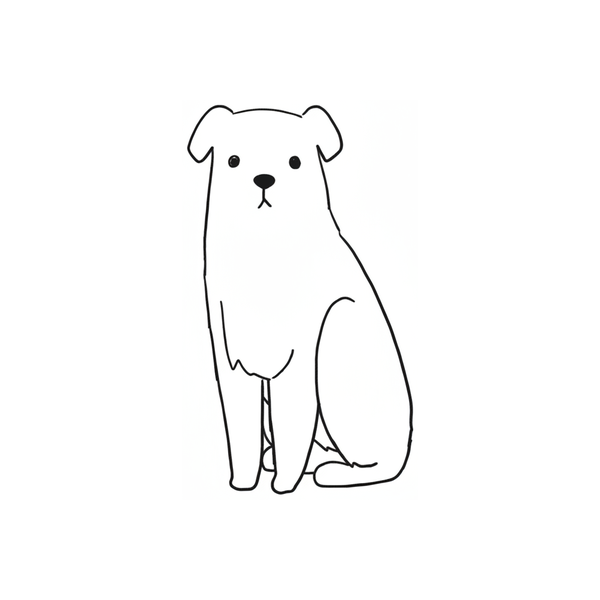
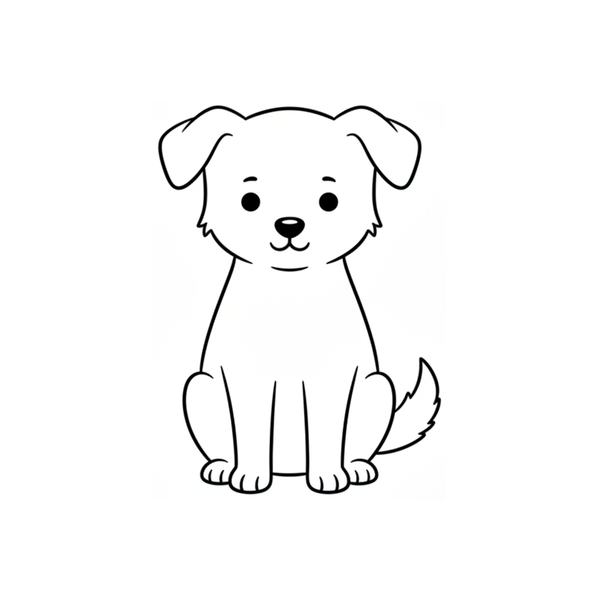
refactor: recreate score 6 dog mascot using fox template for upright symmetry and matching line art

Changed region(s): [[0.27, 0.15, 0.75, 0.84], [0.45, 0.36, 0.51, 0.45], [0.24, 0.24, 0.27, 0.27]]

diff --git a/scripts/recreate_dog.py b/scripts/recreate_dog.py
@@ -1,0 +1,93 @@
+import io
+from pathlib import Path
+import google.auth
+from google import genai
+from PIL import Image
+
+def recreate_dog() -> None:
+    credentials, project = google.auth.default()
+    if not project:
+        raise ValueError("CRITICAL: GCP project not resolved from auth.")
+
+    client = genai.Client(vertexai=True, project=project, location="us-central1")
+    fox_path = Path("assets/images/animals/score_7_fox.png")
+    if not fox_path.is_file():
+        raise FileNotFoundError(f"CRITICAL: Fox template image not found at {fox_path}")
+    fox_img = Image.open(fox_path)
+
+    prompt = (
+        "Generate a cute friendly dog sitting upright facing directly forward, using the provided fox image as the exact structural and stylistic template: "
+        "1. Exact same art style and composition as the template image: clean, crisp black ink line art, pure white fill inside, no color, no shading. "
+        "2. Perfectly centered front-facing symmetrical sitting pose: two front paws planted straight down in the center, sitting hind legs on both sides. "
+        "3. Animal features changed to a dog/puppy: cute floppy or folded dog ears, gentle rounded dog head, cute black dot eyes with subtle eyebrows, black dog nose, friendly mouth, short wagging dog tail at the side or tucked. "
+        "4. Pure solid white background with no background elements, no floor, no shadows."
+    )
+
+    print("Generating dog with fox template via gemini-2.5-flash-image...")
+    res = client.models.generate_content(
+        model="gemini-2.5-flash-image",
+        contents=[fox_img, prompt],
+    )
+
+    raw_img = None
+    for cand in res.candidates:
+        if cand.content:
+            for part in cand.content.parts:
+                if part.inline_data and part.inline_data.data:
+                    raw_img = Image.open(io.BytesIO(part.inline_data.data))
+                    break
+        if raw_img is not None:
+            break
+
+    if raw_img is None:
+        raise RuntimeError("CRITICAL: No image returned by gemini-2.5-flash-image.")
+
+    raw_img.save("scripts/raw_dog_new.png")
+
+    # Crop content
+    rgb = raw_img.convert("RGB")
+    w, h = rgb.size
+    min_x, min_y, max_x, max_y = w, h, 0, 0
+    found = False
+    for y in range(h):
+        for x in range(w):
+            r, g, b = rgb.getpixel((x, y))
+            if r < 245 or g < 245 or b < 245:
+                found = True
+                if x < min_x: min_x = x
+                if y < min_y: min_y = y
+                if x > max_x: max_x = x
+                if y > max_y: max_y = y
+
+    if not found:
+        raise RuntimeError("CRITICAL: No content found in generated dog image.")
+
+    pad = 8
+    crop_box = (
+        max(0, min_x - pad),
+        max(0, min_y - pad),
+        min(w, max_x + pad + 1),
+        min(h, max_y + pad + 1),
+    )
+    cropped = rgb.crop(crop_box)
+    cw, ch = cropped.size
+
+    # Dog target size is 400px on 600x600 canvas
+    target_size = 400
+    scale = target_size / max(cw, ch)
+    new_w = max(1, int(cw * scale))
+    new_h = max(1, int(ch * scale))
+    scaled = cropped.resize((new_w, new_h), Image.Resampling.LANCZOS)
+
+    canvas = Image.new("RGB", (600, 600), (255, 255, 255))
+    paste_x = (600 - new_w) // 2
+    paste_y = (600 - new_h) // 2
+    canvas.paste(scaled, (paste_x, paste_y))
+
+    out_path = Path("assets/images/animals/score_6_dog.png")
+    canvas.save(out_path)
+    canvas.save("scripts/dog_new_600x600.png")
+    print(f"Successfully recreated {out_path} (target size: {target_size}px, cropped: {cw}x{ch})")
+
+if __name__ == "__main__":
+    recreate_dog()
